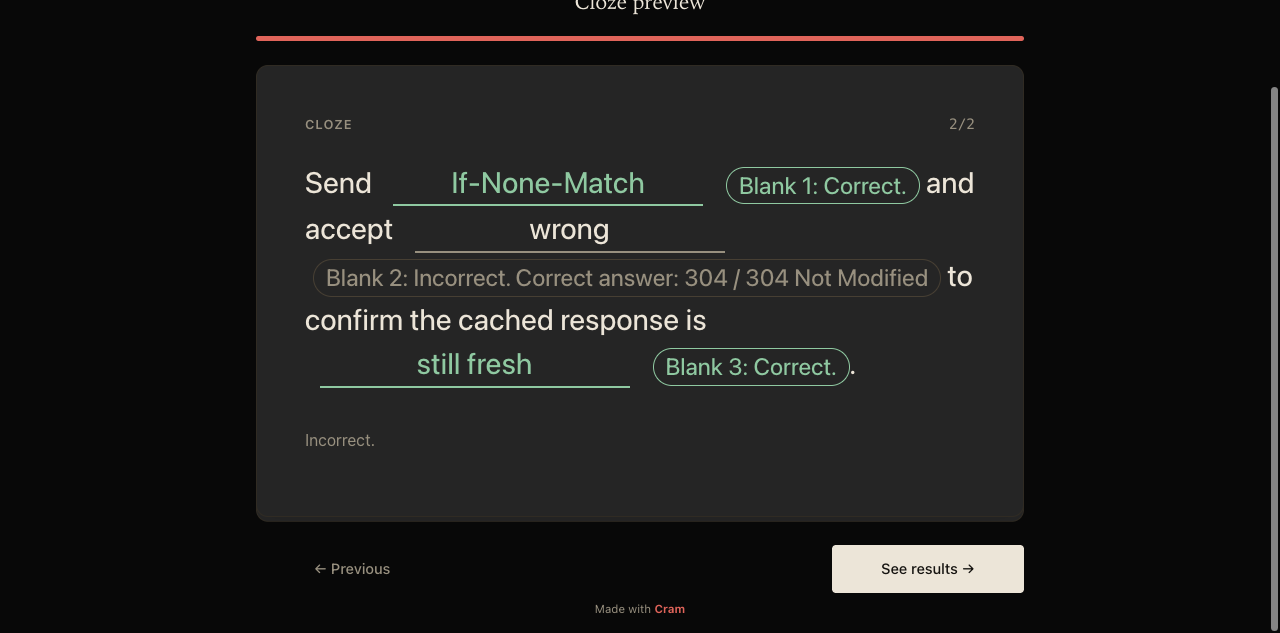
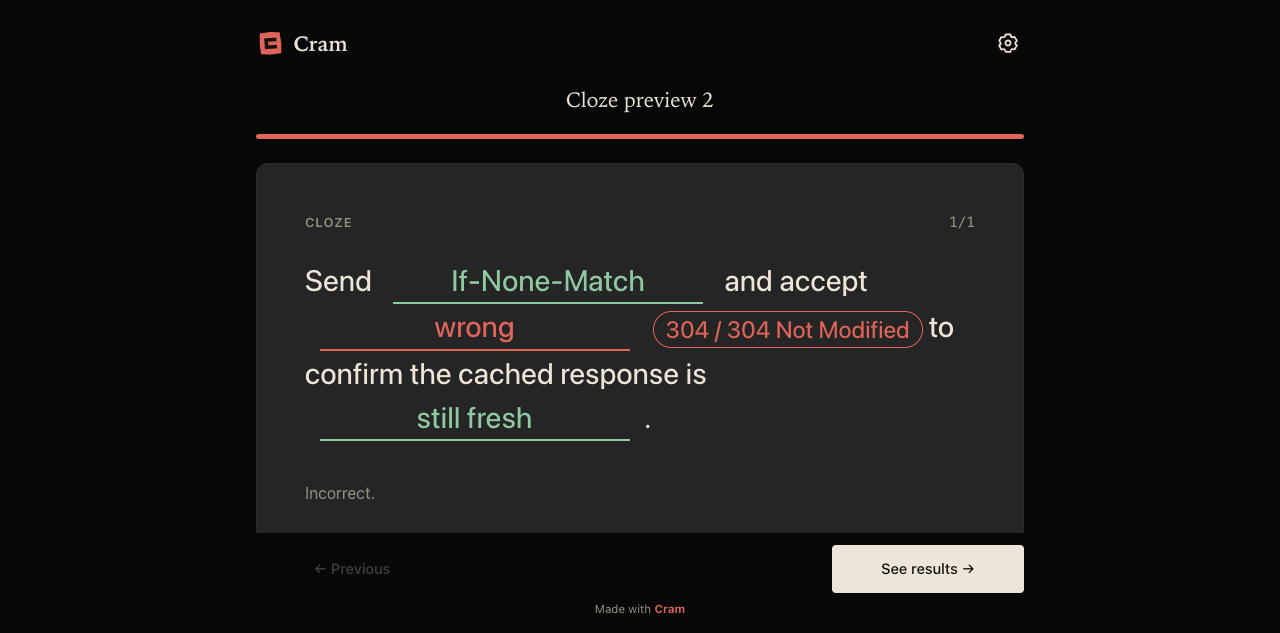
fix(player): simplify cloze feedback to green/red with a bare answer
Drop the separate visible badge for correct blanks since the green
input is already unambiguous, and simplify the incorrect badge to the
accepted answer text colored red, instead of a longer "Blank N:
Incorrect. Correct answer: ..." sentence. The correction element is
still present (visually hidden via player__visually-hidden) for
correct blanks so aria-describedby keeps working for both states.

Removes the now-unused "Blank {number}: Correct." and
"Blank {number}: Incorrect. Correct answer: {answer}" keys from every
locale catalog.

Claude-Session: https://claude.ai/code/session_01DTorfWDQUUmn4ozVGXnNLP

diff --git a/tests/browser/i18n.spec.js b/tests/browser/i18n.spec.js
@@ -16,12 +16,12 @@ const DECK = {
   ],
 };
 const LANGUAGES = [
-  { code: "en", settings: "Open settings", theme: "Theme", reveal: "Show answer", missed: "Missed it", hint: "Show hint", check: "Check answer", checks: "Check answers", blank: "Blank 1", correct: "Blank 1: Correct.", retry: "Retry 2 missed cards", single: "Retry 1 missed card", reset: "Reset progress" },
-  { code: "ko", settings: "설정 열기", theme: "테마", reveal: "정답 보기", missed: "몰랐어요", hint: "힌트 보기", check: "정답 확인", checks: "정답 확인", blank: "빈칸 1", correct: "빈칸 1: 정답입니다.", retry: "틀린 카드 2개 다시 풀기", single: "틀린 카드 1개 다시 풀기", reset: "진행 상황 초기화" },
-  { code: "ja", settings: "設定を開く", theme: "テーマ", reveal: "答えを見る", missed: "わからなかった", hint: "ヒントを見る", check: "答えを確認", checks: "答えを確認", blank: "空欄1", correct: "空欄1: 正解です。", retry: "間違えた2枚を再挑戦", single: "間違えた1枚を再挑戦", reset: "進捗をリセット" },
-  { code: "zh-CN", settings: "打开设置", theme: "主题", reveal: "显示答案", missed: "没记住", hint: "显示提示", check: "检查答案", checks: "检查答案", blank: "第1个空", correct: "第1个空：正确。", retry: "重试2张错题卡片", single: "重试1张错题卡片", reset: "重置进度" },
-  { code: "es", settings: "Abrir ajustes", theme: "Tema", reveal: "Mostrar respuesta", missed: "No la sabía", hint: "Mostrar pista", check: "Comprobar respuesta", checks: "Comprobar respuestas", blank: "Espacio 1", correct: "Espacio 1: Correcto.", retry: "Reintentar 2 tarjetas falladas", single: "Reintentar 1 tarjeta fallada", reset: "Restablecer progreso" },
-  { code: "fr", settings: "Ouvrir les paramètres", theme: "Thème", reveal: "Afficher la réponse", missed: "Je ne savais pas", hint: "Afficher l’indice", check: "Vérifier la réponse", checks: "Vérifier les réponses", blank: "Trou 1", correct: "Trou 1 : Correct.", retry: "Reprendre 2 cartes ratées", single: "Reprendre 1 carte ratée", reset: "Réinitialiser la progression" },
+  { code: "en", settings: "Open settings", theme: "Theme", reveal: "Show answer", missed: "Missed it", hint: "Show hint", check: "Check answer", checks: "Check answers", blank: "Blank 1", correct: "Correct.", retry: "Retry 2 missed cards", single: "Retry 1 missed card", reset: "Reset progress" },
+  { code: "ko", settings: "설정 열기", theme: "테마", reveal: "정답 보기", missed: "몰랐어요", hint: "힌트 보기", check: "정답 확인", checks: "정답 확인", blank: "빈칸 1", correct: "정답입니다.", retry: "틀린 카드 2개 다시 풀기", single: "틀린 카드 1개 다시 풀기", reset: "진행 상황 초기화" },
+  { code: "ja", settings: "設定を開く", theme: "テーマ", reveal: "答えを見る", missed: "わからなかった", hint: "ヒントを見る", check: "答えを確認", checks: "答えを確認", blank: "空欄1", correct: "正解です。", retry: "間違えた2枚を再挑戦", single: "間違えた1枚を再挑戦", reset: "進捗をリセット" },
+  { code: "zh-CN", settings: "打开设置", theme: "主题", reveal: "显示答案", missed: "没记住", hint: "显示提示", check: "检查答案", checks: "检查答案", blank: "第1个空", correct: "正确。", retry: "重试2张错题卡片", single: "重试1张错题卡片", reset: "重置进度" },
+  { code: "es", settings: "Abrir ajustes", theme: "Tema", reveal: "Mostrar respuesta", missed: "No la sabía", hint: "Mostrar pista", check: "Comprobar respuesta", checks: "Comprobar respuestas", blank: "Espacio 1", correct: "Correcto.", retry: "Reintentar 2 tarjetas falladas", single: "Reintentar 1 tarjeta fallada", reset: "Restablecer progreso" },
+  { code: "fr", settings: "Ouvrir les paramètres", theme: "Thème", reveal: "Afficher la réponse", missed: "Je ne savais pas", hint: "Afficher l’indice", check: "Vérifier la réponse", checks: "Vérifier les réponses", blank: "Trou 1", correct: "Correct.", retry: "Reprendre 2 cartes ratées", single: "Reprendre 1 carte ratée", reset: "Réinitialiser la progression" },
 ];
 
 for (const language of LANGUAGES) {
@@ -118,7 +118,7 @@ it("translates incorrect answers, restored feedback, and completion announcement
   await page.getByTestId("next-card").click();
   await page.getByRole("textbox", { name: "빈칸 1", exact: true }).fill("Wrong");
   await page.getByRole("button", { name: "정답 확인", exact: true }).click();
-  await expect(page.getByTestId("cloze-blank-feedback")).toHaveText("빈칸 1: 오답입니다. 정답: Correct.");
+  await expect(page.getByTestId("cloze-blank-feedback")).toHaveText("Correct.");
   await expect(page.locator("#player-status")).toHaveText("오답입니다.");
 
   // When: the learner revisits the answered cloze and finishes the session.

diff --git a/tests/browser/player.spec.js b/tests/browser/player.spec.js
@@ -1289,7 +1289,7 @@ for (const width of [390, 1280]) {
     const feedback = await page.getByTestId("cloze-feedback").boundingBox();
     expect(feedback.y - (sentence.y + sentence.height)).toBeLessThan(40);
     await expect(page.getByTestId("cloze-input")).toHaveAttribute("aria-invalid", "true");
-    await expect(page.getByTestId("cloze-input")).toHaveAccessibleDescription(/Correct answer:/);
+    await expect(page.getByTestId("cloze-input")).toHaveAccessibleDescription(/If-None-Match/);
     await expect(page.getByTestId("cloze-feedback")).toBeFocused();
     await expect(page.getByTestId("cloze-feedback")).toBeInViewport({ ratio: 1 });
     await expect(page.getByTestId("show-hint")).toBeHidden();
@@ -2264,9 +2264,7 @@ test("checks cloze blanks with exact alternatives and restores aggregate feedbac
   await expect(page.getByTestId("cloze-input").nth(0)).toHaveAttribute("data-result", "correct");
   await expect(page.getByTestId("cloze-input").nth(1)).toHaveAttribute("data-result", "incorrect");
   await expect(page.getByTestId("cloze-feedback")).toHaveAttribute("data-result", "incorrect");
-  await expect(page.getByTestId("cloze-blank-feedback").nth(1)).toContainText(
-    "Correct answer: 304 / 304 Not Modified"
-  );
+  await expect(page.getByTestId("cloze-blank-feedback").nth(1)).toHaveText("304 / 304 Not Modified");
   expect(await page.evaluate(() => window.CRAM_PLAYER.getGrade("cloze-card"))).toBe("incorrect");
 
   // Returning to the card shows only the aggregate result because the shell stores one grade.
@@ -2301,13 +2299,14 @@ test("shows the accepted answer beside a single incorrect cloze blank", async ({
   await input.fill("London");
   await page.getByTestId("cloze-check-answer").click();
 
-  // Then: the learner's text stays in the disabled input, marked invalid, beside its own accepted answer.
+  // Then: the learner's text stays in the disabled input, marked invalid and colored, beside its own accepted answer.
   await expect(input).toHaveValue("London");
   await expect(input).toBeDisabled();
+  await expect(input).toHaveClass(/cloze__input--incorrect/);
   await expect(input).toHaveAttribute("aria-invalid", "true");
-  await expect(input).toHaveAccessibleDescription(/Correct answer: Paris/);
+  await expect(input).toHaveAccessibleDescription(/Paris/);
   await expect(correction).toBeVisible();
-  await expect(correction).toContainText("Correct answer: Paris");
+  await expect(correction).toHaveText("Paris");
 
   // And: the correction sits right next to the blank instead of only in a card-level summary.
   const inputBox = await input.boundingBox();
@@ -2335,22 +2334,22 @@ test("matches each blank's own correction to its position across multiple blanks
   await inputs.nth(2).fill("still fresh");
   await page.getByTestId("cloze-check-answer").click();
 
-  // Then: each blank carries its own result, distinguishable at a glance.
+  // Then: correct blanks need no visible badge, since green is already unambiguous.
   await expect(inputs.nth(0)).toHaveClass(/cloze__input--correct/);
-  await expect(inputs.nth(1)).toHaveClass(/cloze__input--incorrect/);
   await expect(inputs.nth(2)).toHaveClass(/cloze__input--correct/);
-  await expect(corrections.nth(1)).toHaveClass(/cloze__blank-feedback--incorrect/);
+  await expect(corrections.nth(0)).toHaveClass(/player__visually-hidden/);
+  await expect(corrections.nth(2)).toHaveClass(/player__visually-hidden/);
 
-  // And: only the incorrect blank's own accepted answer appears, beside that blank.
-  await expect(corrections.nth(1)).toContainText("Correct answer: 304 / 304 Not Modified");
-  await expect(corrections.nth(0)).not.toContainText("304");
-  await expect(corrections.nth(2)).not.toContainText("304");
+  // And: only the incorrect blank turns red and shows its own accepted answer, beside that blank.
+  await expect(inputs.nth(1)).toHaveClass(/cloze__input--incorrect/);
+  await expect(corrections.nth(1)).toHaveClass(/cloze__blank-feedback--incorrect/);
+  await expect(corrections.nth(1)).toHaveText("304 / 304 Not Modified");
   const wrongInputBox = await inputs.nth(1).boundingBox();
   const wrongCorrectionBox = await corrections.nth(1).boundingBox();
   expect(Math.abs(wrongCorrectionBox.y - wrongInputBox.y)).toBeLessThan(60);
 
   // And: the incorrect input's accessible description names its own accepted answer, not another blank's.
-  await expect(inputs.nth(1)).toHaveAccessibleDescription(/Correct answer: 304/);
+  await expect(inputs.nth(1)).toHaveAccessibleDescription(/304/);
 });
 
 async function openPlayer(page, deck) {

diff --git a/skills/cram/template/player.html b/skills/cram/template/player.html
@@ -650,7 +650,8 @@
     }
 
     .cloze__input--incorrect {
-      border-bottom-color: var(--ink-soft);
+      border-bottom-color: var(--accent);
+      color: var(--accent);
     }
 
     .cloze__check-button {
@@ -674,11 +675,6 @@
     .cloze__blank-feedback {
       display: inline-block;
       margin-inline-start: 0.35em;
-      padding: 0.05em 0.5em;
-      border: 1px solid var(--rule-strong);
-      border-radius: 999px;
-      background: var(--surface);
-      color: var(--ink-soft);
       font-family: var(--sans);
       font-size: 0.8em;
       line-height: 1.4;
@@ -686,14 +682,12 @@
       white-space: normal;
     }
 
-    .cloze__blank-feedback--correct {
-      border-color: var(--positive);
-      color: var(--positive);
-    }
-
     .cloze__blank-feedback--incorrect {
-      border-color: var(--rule-strong);
-      color: var(--ink-soft);
+      padding: 0.05em 0.5em;
+      border: 1px solid var(--accent);
+      border-radius: 999px;
+      background: var(--surface);
+      color: var(--accent);
     }
 
     .cloze__explanation,
@@ -2397,14 +2391,14 @@
               blank.input.setAttribute("aria-invalid", String(!blankCorrect));
               blank.input.setAttribute("aria-describedby", blank.correction.id);
               blank.correction.hidden = false;
-              blank.correction.classList.toggle("cloze__blank-feedback--correct", blankCorrect);
               blank.correction.classList.toggle("cloze__blank-feedback--incorrect", !blankCorrect);
+              blank.correction.classList.toggle("player__visually-hidden", blankCorrect);
               blank.correction.dataset.result = blankCorrect
                 ? CLOZE_GRADES.CORRECT
                 : CLOZE_GRADES.INCORRECT;
               blank.correction.textContent = blankCorrect
-                ? t("Blank {number}: Correct.", { number: index + 1 })
-                : t("Blank {number}: Incorrect. Correct answer: {answer}", { number: index + 1, answer: blank.answers.join(" / ") });
+                ? t("Correct.")
+                : blank.answers.join(" / ");
             });
           } else {
             blanks.forEach((blank) => {
@@ -2414,10 +2408,7 @@
               blank.input.removeAttribute("aria-invalid");
               blank.input.removeAttribute("aria-describedby");
               blank.correction.hidden = true;
-              blank.correction.classList.remove(
-                "cloze__blank-feedback--correct",
-                "cloze__blank-feedback--incorrect"
-              );
+              blank.correction.classList.remove("cloze__blank-feedback--incorrect", "player__visually-hidden");
               blank.correction.removeAttribute("data-result");
               blank.correction.textContent = "";
             });
